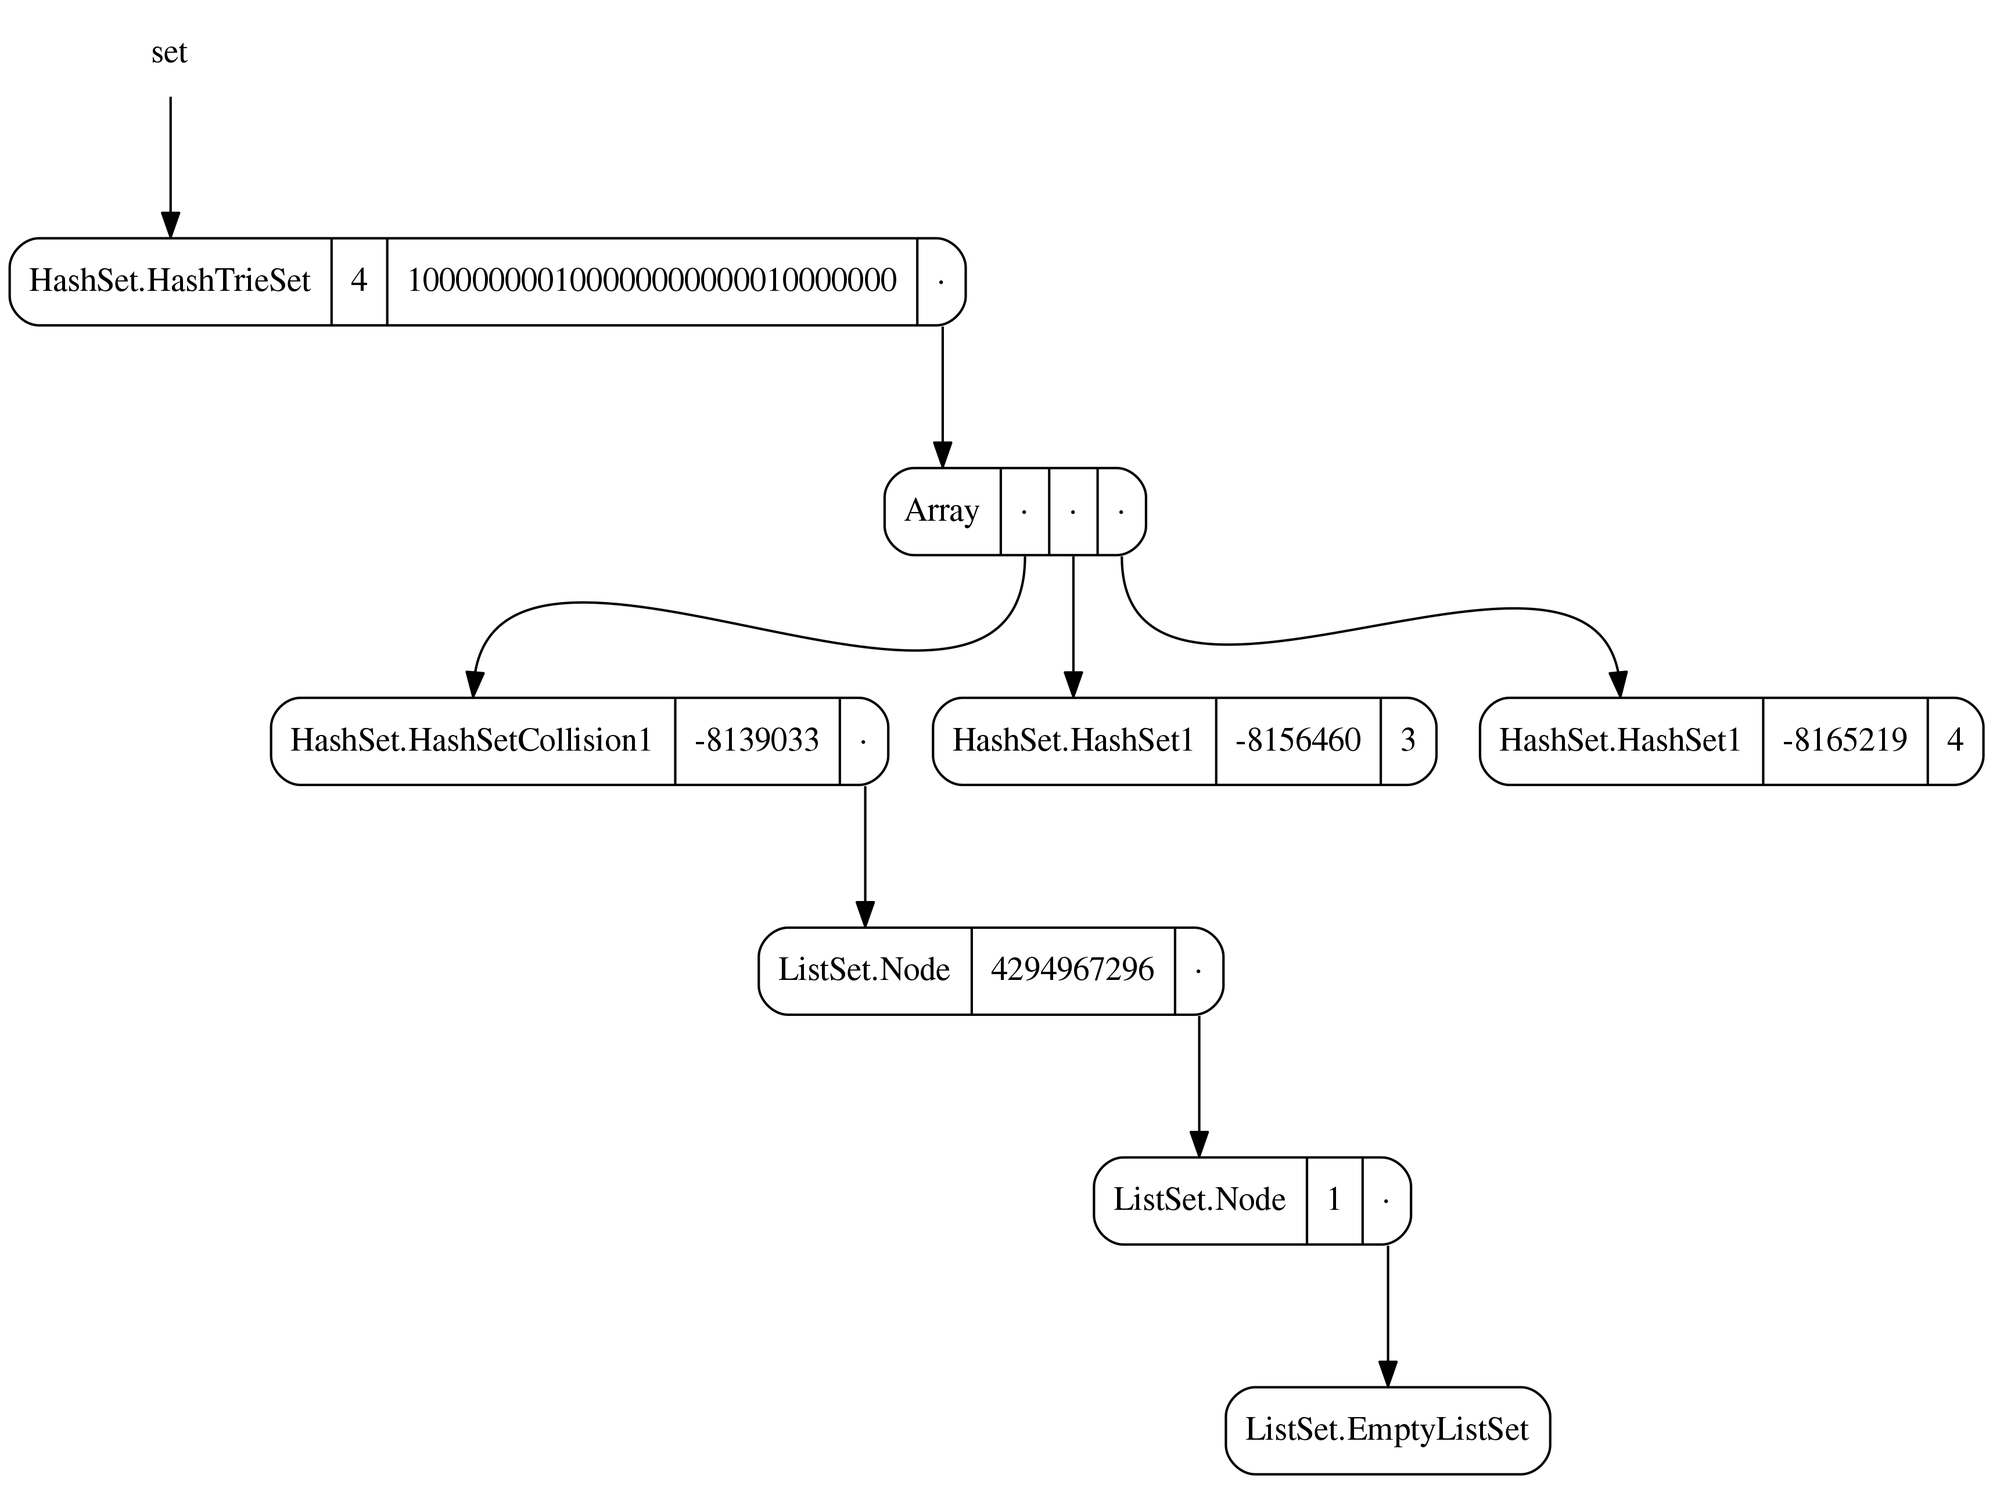
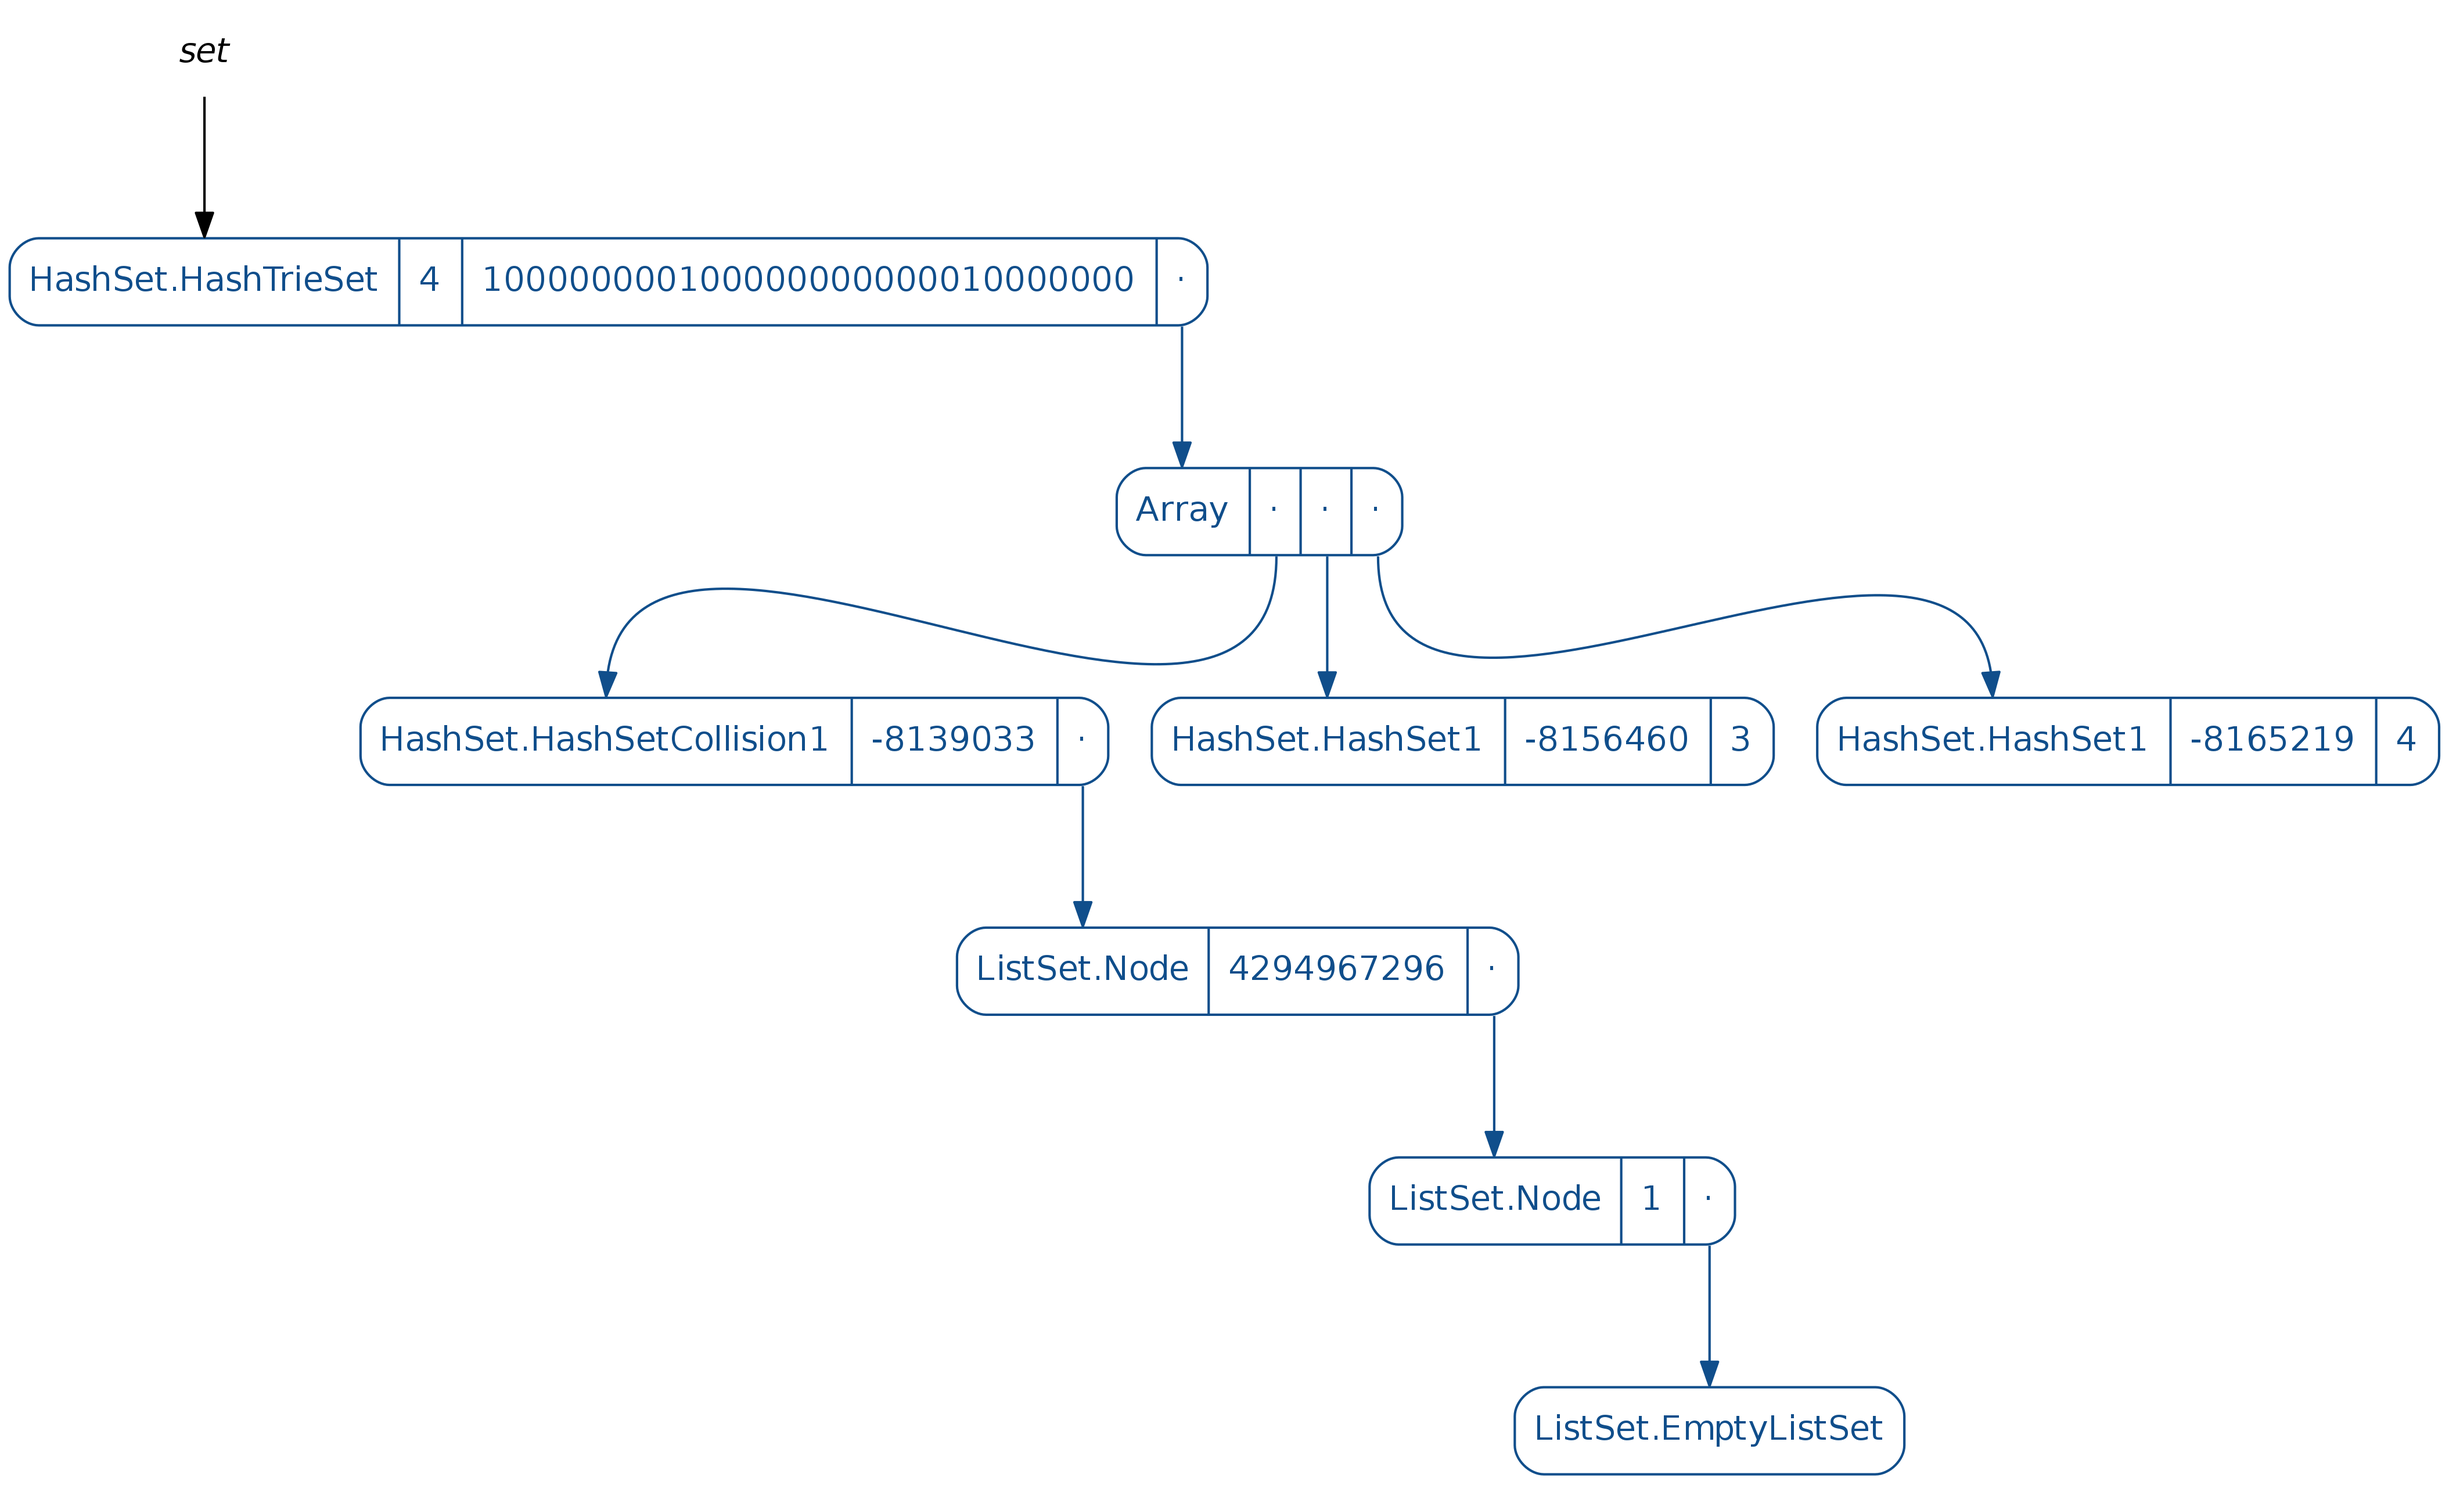
Add color

diff --git a/src/main/tut/README.md b/src/main/tut/README.md
@@ -57,12 +57,13 @@ DotPlotter(Paths.get("examples", "lists2.png")).plot(
 #### Queues
 
 ```tut:silent
-val queue = Queue(1, 2) :+ 3 :+ 4
+val queue1 = Queue(1, 2) :+ 3 :+ 4
+val queue2 = (queue1 :+ 5).tail
 
-DotPlotter(Paths.get("examples", "queue.png")).plot(queue)
+DotPlotter(Paths.get("examples", "queues.png"), verticalSpacing = 1.2).plot(queue1, queue2)
 ```
 
-<img src="examples/queue.png" height="500px" alt="Queue example" />
+<img src="examples/queues.png" height="500px" alt="Queue example" />
 
 #### Vectors
 

diff --git a/README.md b/README.md
@@ -81,12 +81,13 @@ DotPlotter(Paths.get("examples", "lists2.png")).plot(
 #### Queues
 
 ```scala
-val queue = Queue(1, 2) :+ 3 :+ 4
+val queue1 = Queue(1, 2) :+ 3 :+ 4
+val queue2 = (queue1 :+ 5).tail
 
-DotPlotter(Paths.get("examples", "queue.png")).plot(queue)
+DotPlotter(Paths.get("examples", "queues.png"), verticalSpacing = 1.2).plot(queue1, queue2)
 ```
 
-<img src="examples/queue.png" height="500px" alt="Queue example" />
+<img src="examples/queues.png" height="500px" alt="Queue example" />
 
 #### Vectors
 
